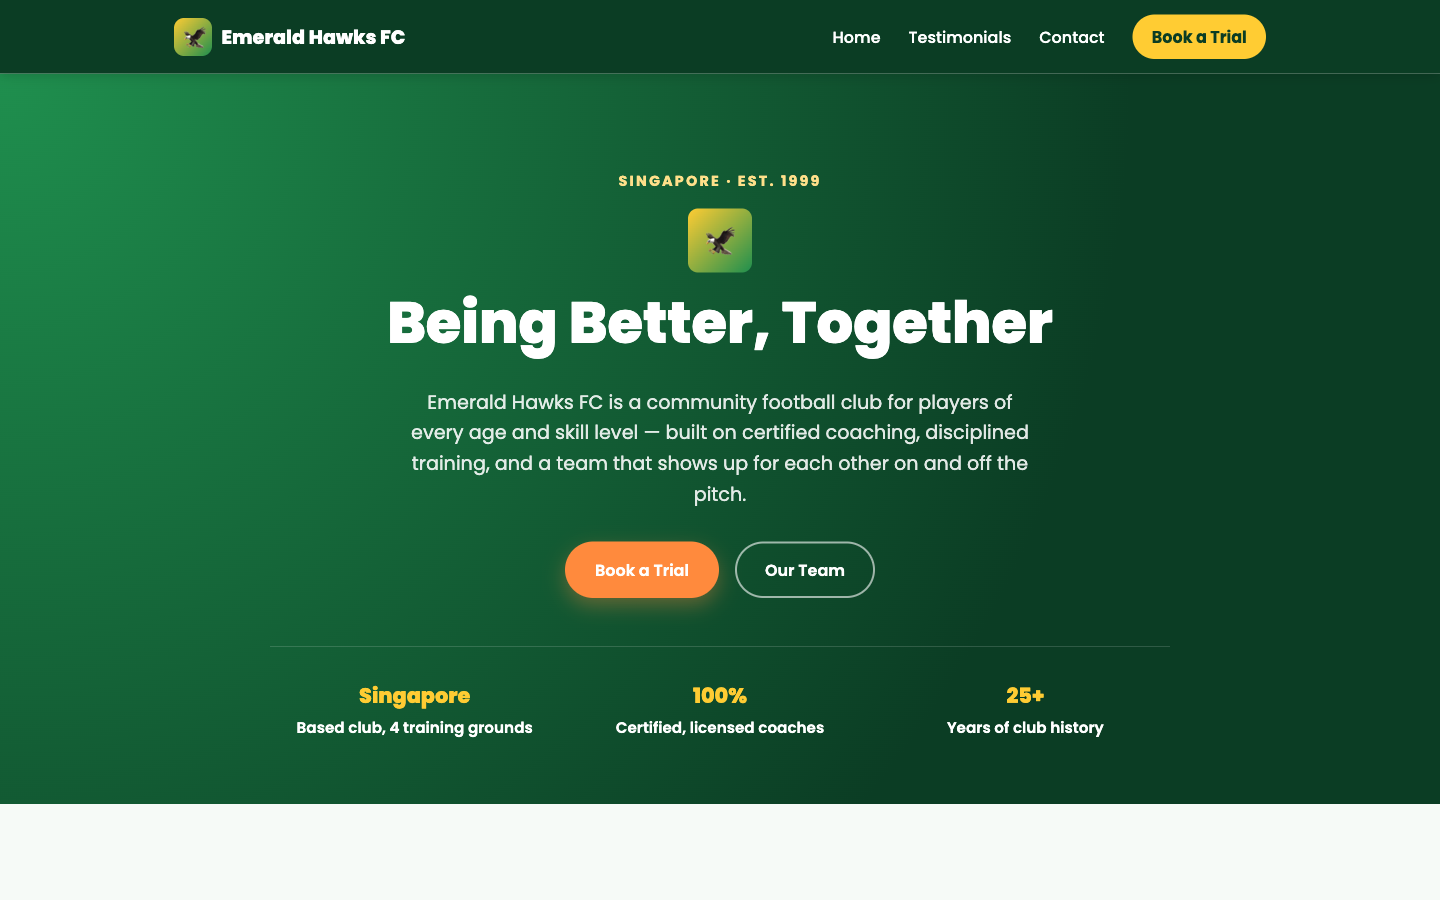
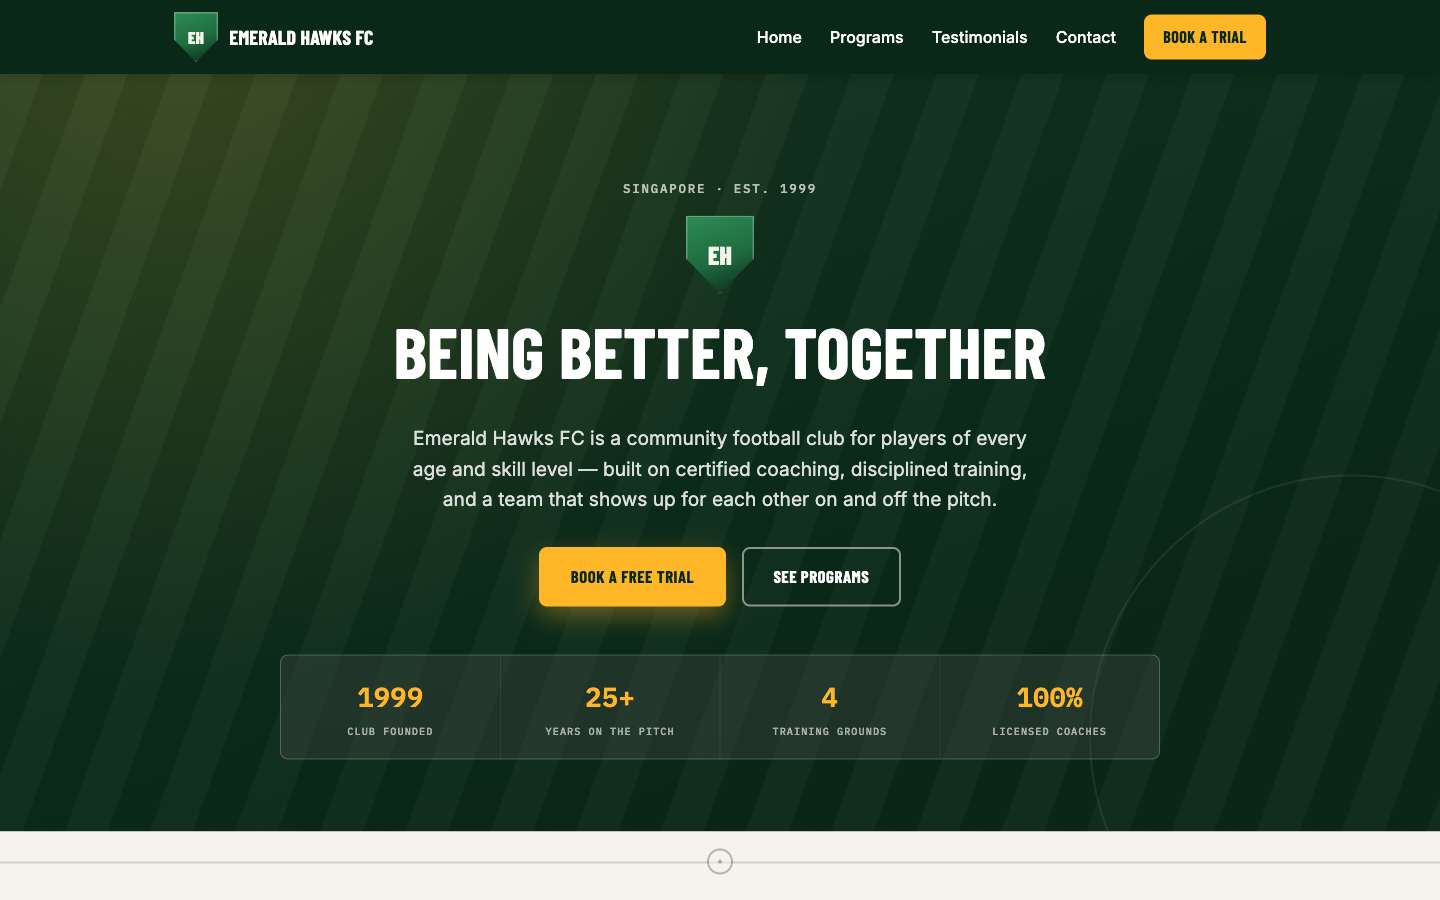
Update README and screenshot for the football-themed redesign
Reflect the new Programs/Why Us sections, pitch-line dividers, crest
badge, and SEO metadata added in the site revamp.

diff --git a/README.md b/README.md
@@ -9,9 +9,12 @@ A single-page marketing site for a Singapore-based football club, built with pla
 ## Features
 
 - Sticky, responsive navbar with a mobile hamburger menu
-- Hero section with calls-to-action and a quick facts strip
-- Testimonials grid with scroll-triggered fade-in animations
+- Hero section with a scoreboard-style stats strip and a staggered entrance animation (respects `prefers-reduced-motion`)
+- Pitch-line "kickoff mark" dividers between sections and a club crest badge, tying the visual identity to the sport
+- Programs section listing all five squads (Mini Hawks through Adult League)
+- Why Us trust section and a testimonials grid with scroll-triggered fade-in animations
 - Trial enquiry form with client-side validation (name, email, phone) and accessible inline error messages
+- SEO metadata: descriptive title/description, Open Graph & Twitter cards, canonical URL, and JSON-LD structured data
 - Footer with contact details, quick links, and an auto-updating copyright year
 
 ## Getting started